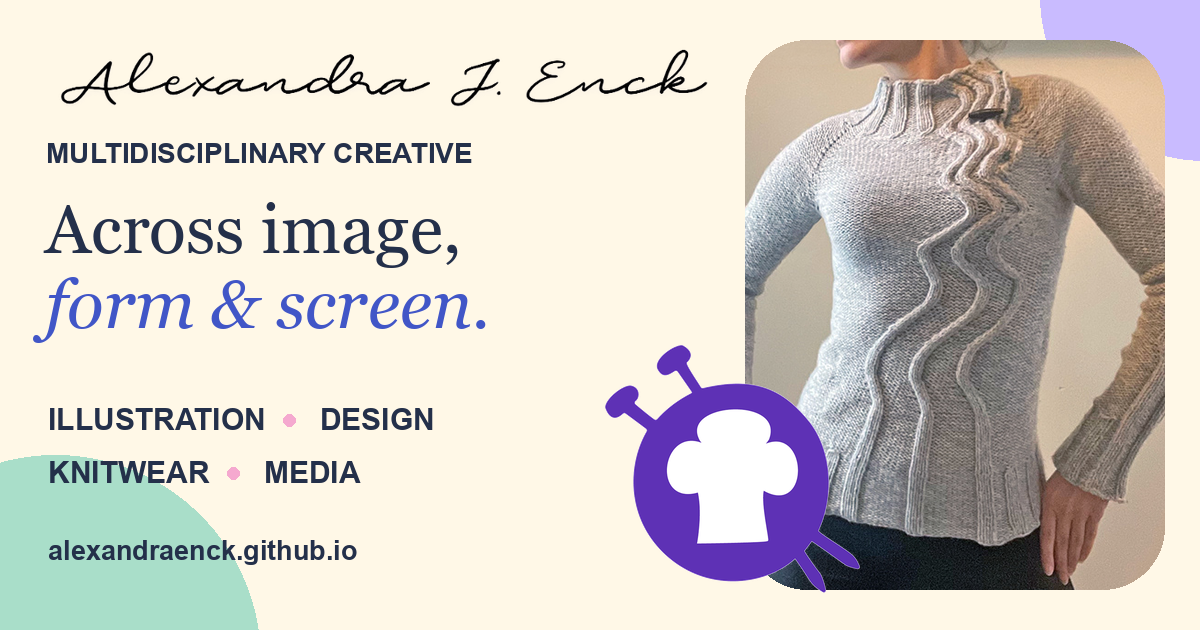
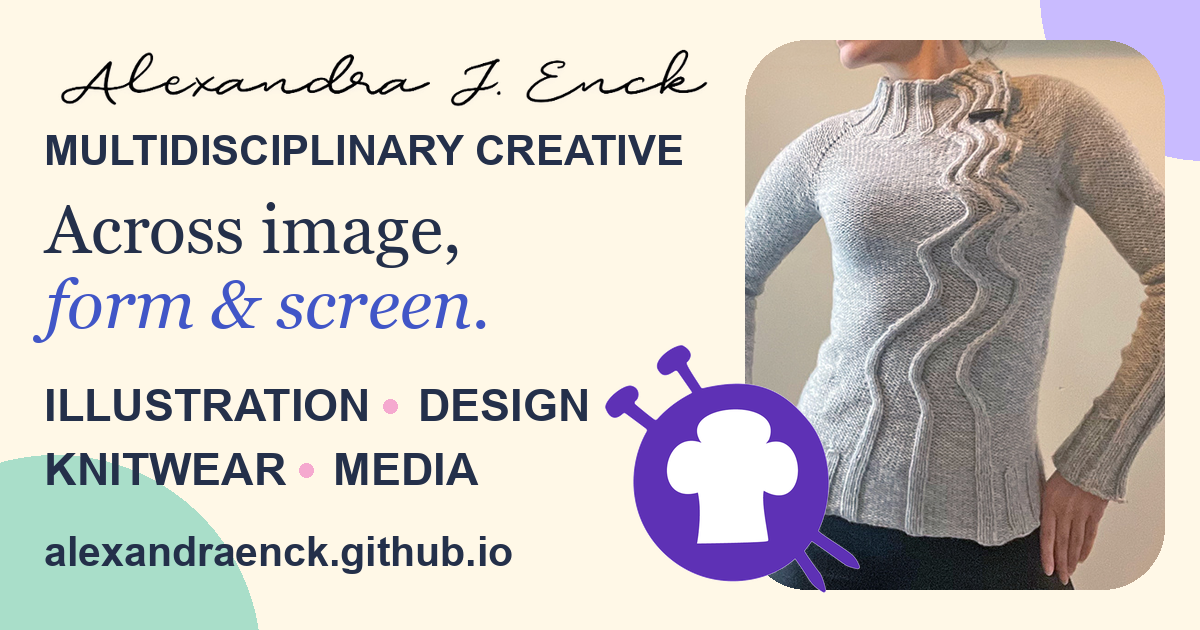
Scale up social card labels

Changed region(s): [[0.0308, 0.6032, 0.4933, 0.7841], [0.0308, 0.2111, 0.5858, 0.2714], [0.0308, 0.8444, 0.4317, 0.9048]]

diff --git a/index.html b/index.html
@@ -38,8 +38,8 @@
       content="A creative practice spanning illustration, graphic design, original knitwear, and television."
     />
     <meta property="og:url" content="https://alexandraenck.github.io/" />
-    <meta property="og:image" content="https://alexandraenck.github.io/og.png?v=20260729-4" />
-    <meta property="og:image:secure_url" content="https://alexandraenck.github.io/og.png?v=20260729-4" />
+    <meta property="og:image" content="https://alexandraenck.github.io/og.png?v=20260729-5" />
+    <meta property="og:image:secure_url" content="https://alexandraenck.github.io/og.png?v=20260729-5" />
     <meta property="og:image:type" content="image/png" />
     <meta
       property="og:image:alt"
@@ -54,7 +54,7 @@
       name="twitter:description"
       content="A creative practice spanning illustration, graphic design, original knitwear, and television."
     />
-    <meta name="twitter:image" content="https://alexandraenck.github.io/og.png?v=20260729-4" />
+    <meta name="twitter:image" content="https://alexandraenck.github.io/og.png?v=20260729-5" />
     <meta name="twitter:image:alt" content="Alexandra J. Enck — Illustration, Design, Knitwear, Media" />
 
     <script type="application/ld+json">
